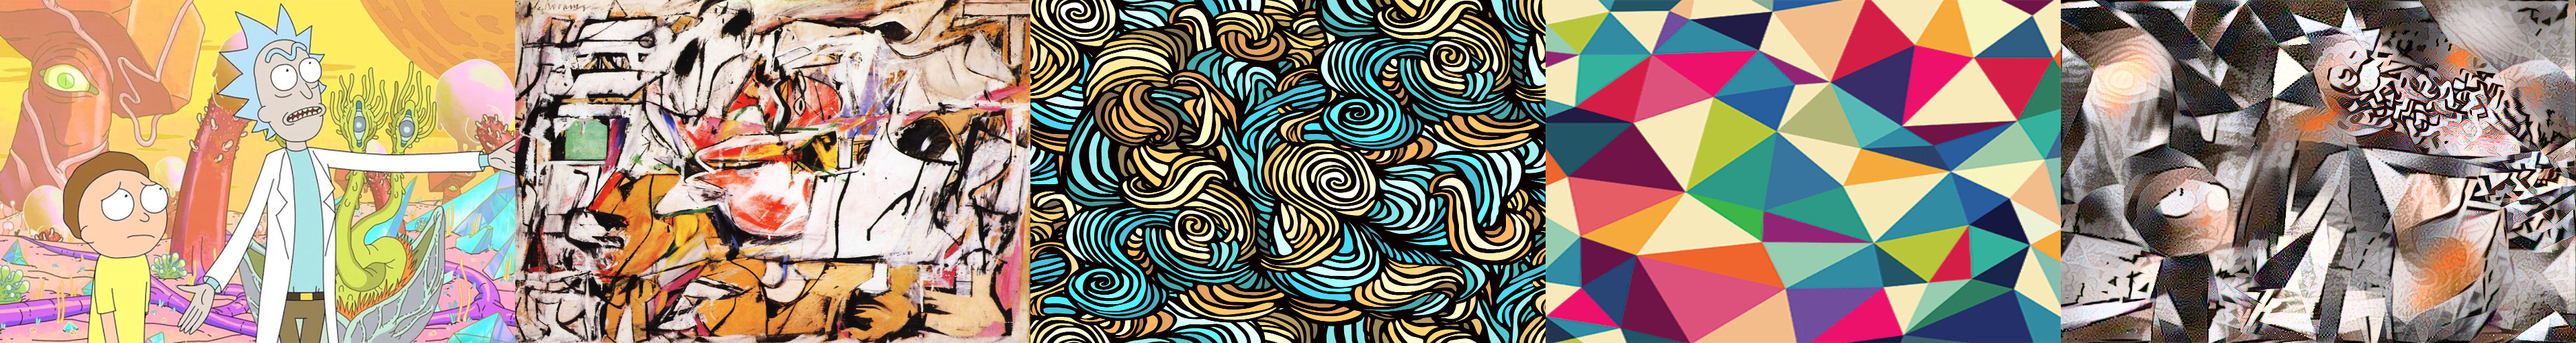
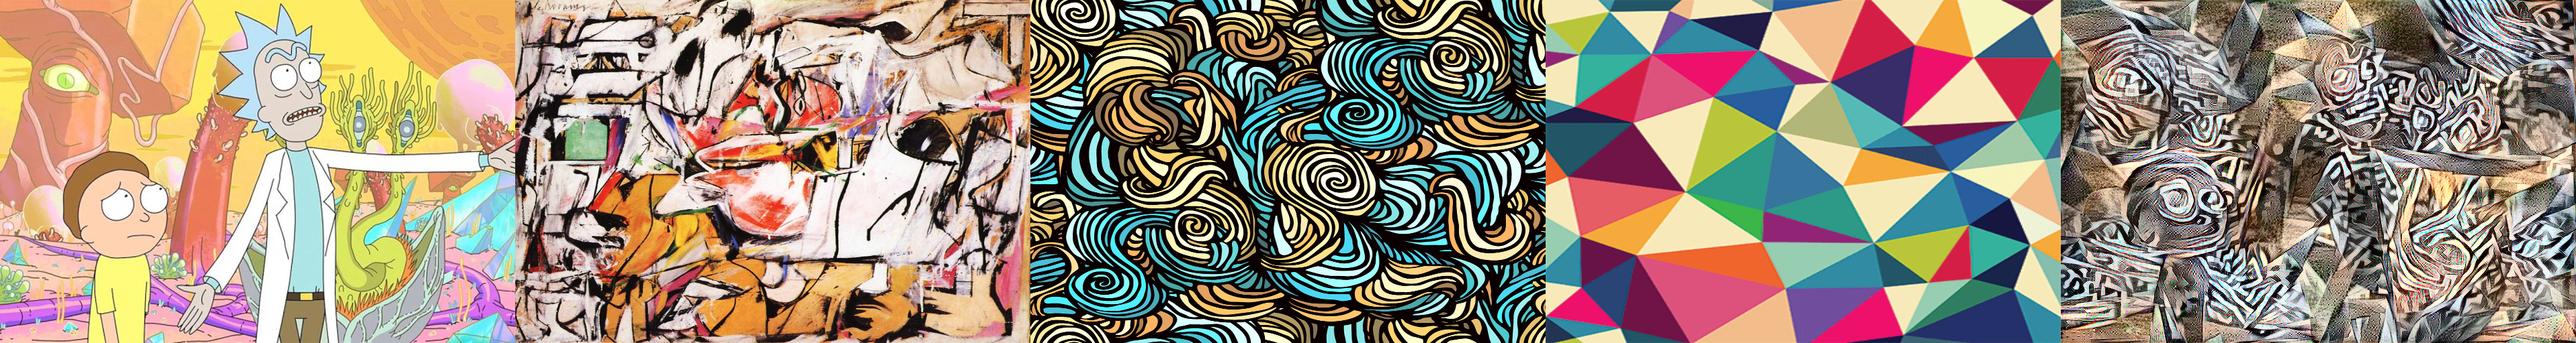
New image

Changed region(s): [[0.7757, 0.0, 1.0, 1.0]]

diff --git a/main.py b/main.py
@@ -467,11 +467,11 @@ if __name__ == '__main__':
     # Messing around here
     content_layers = [[12]]# 0,2,4,8,12
     multi_content = [contents["rick-and-morty"]]
-    weight_contents = [10.0]
+    weight_contents = [12.0]
 
     style_layers = [ list(range(4)), list(range(4,12)), list(range(12,15))]
     multi_style = [styles["asheville"], styles["spaghetti"], styles["polygon"]]
-    weight_styles = [10.0,10.0, 10.0]
+    weight_styles = [10.0,20.0, 10.0]
 
     # Resize to first content shape, also resizes style
     if FLAGS.resize > 0:
